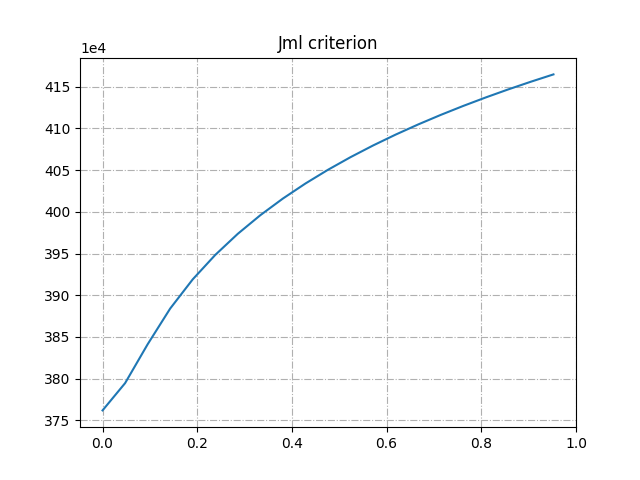
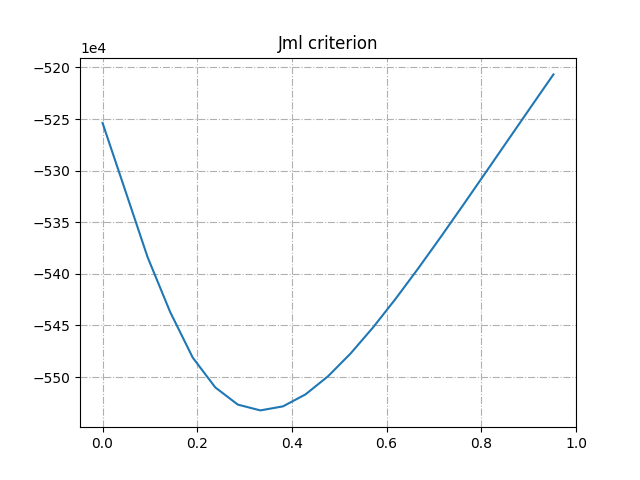
Fixed : joint and marginal estimation.

diff --git a/Scripts/functions.py b/Scripts/functions.py
@@ -11,7 +11,50 @@ from plotLib import saveImsubplots, saveImplot
 import numpy as np
 import scipy as sp
 
-def jointMAP2psf(oObject, dspObject, psf_1, psf_2, alpha, verbose=False):
+def createSyntheticImage(oObject, psf_1, psf_2, alpha_0, verbose=False):
+    # Define the synthetic image
+    ## Define PSF
+    psf = alpha_0 * psf_1 + (1 - alpha_0) * psf_2 # The final PSF is a linear combination of the two PSFs
+
+    psfPadded = np.pad(psf, (768, 768), 'constant') # Use the padded psf for the Fourier transform
+    
+    
+    ### Plot psf for quality check
+    if verbose:
+        saveImplot(psfPadded, f"Resulting psf (padded) for alpha = {alpha_0}", filename=f"Resulting psf (padded) for alpha = {alpha_0}", save=True, plot=True)
+
+    psfPadded = sp.fft.ifftshift(psfPadded)
+    psfPadded = psfPadded[:1024, :1024]
+        
+        
+    ### Plot psf for quality check
+    if verbose:
+        saveImplot(psfPadded, f"Resulting psf (padded + shift) for alpha = {alpha_0}", filename=f"Resulting psf (padded + shift) for alpha = {alpha_0}", save=True, plot=True)
+
+    tfPsf = sp.fft.fft2(psfPadded)
+     
+     
+    ### Plot psf for quality check
+    if verbose:
+        saveImplot(np.abs(tfPsf), f"TF of the PSF for alpha = {alpha_0}", filename=f"TF of PSF for alpha = {alpha_0}", save=True, plot=True)
+
+    simImage = sp.fft.ifft2(sp.fft.fft2(oObject) * sp.fft.fft2(psfPadded))# Q: Should the psf be fftshifted here ?
+    sigma = 0.01 * np.max(oObject)
+    noise = sigma * np.random.randn(*simImage.shape) # Noise corresponding roughly to photon noise for an average of 10 000 photons/pixels
+    simImageNoised = simImage + noise
+    
+
+    ### Plot simulated object, noise, image for quality check
+    if verbose:
+        saveImsubplots([oObject, simImage.real, noise, simImageNoised.real], ["Object", "Image", "Noise", "Noised Image"], filename="simulated_object_image_noisedImage", save=True, plot=True)
+
+
+    
+    return simImageNoised, sigma
+
+
+
+def jointMAP2psf(oObject, dspObject, psf_1, psf_2, alpha, simImageNoised, sigma):
     """Performs the joint estimation of the object and the PSF using the Jmap criterion. The criterion is computed for the given object, the two PSFs and the alpha value. The simulated image is computed using the object and the PSF. The noise is added to the simulated image. The noise and signal DSPs are computed. The Jmap criterion is computed and returned.
 
     Args:
@@ -24,33 +67,15 @@ def jointMAP2psf(oObject, dspObject, psf_1, psf_2, alpha, verbose=False):
     Returns:
         float: Jmap criterion value. The joint MAP solution is the value of alpha that minimize Jmap.
     """
-    ## Define PSF
-    # alpha = 0.3
-    psf = alpha * psf_1 + (1 - alpha) * psf_2
-
-
-    ### Plot psf for quality check
-    if verbose:
-        saveImplot(psf, f"Resulting psf for alpha = {alpha}", filename=f"Resulting psf for alpha = {alpha}", save=False, plot=True)
-
-
-
+    
     ## Joint estimation
-    # from scipy.signal import convolve2d
 
-    psfPadded = np.pad(psf, (256, 256), 'wrap') # Use the padded psf for the Fourier transform
-    psfPadded = sp.fft.ifftshift(psfPadded)
-    simImage = sp.fft.ifft2(sp.fft.fft2(oObject) * sp.fft.fft2(psfPadded))# Q: Should the psf be fftshifted here ?
-    # simImage[:512, :512]
-    sigma = 0.01 * np.max(oObject)
-    noise = sigma * np.random.randn(*simImage.shape) # Noise corresponding roughly to photon noise for an average of 10 000 photons/pixels
-    simImageNoised = simImage + noise
-
-
-    ### Plot simulated object, noise, image for quality check
-    if verbose:
-        saveImsubplots([oObject, simImage.real, noise, simImageNoised.real], ["Object", "Image", "Noise", "Noised Image"], filename="simulated_object_image_noisedImage", save=True, plot=True)
-
+    h = alpha * psf_1 + (1 - alpha) * psf_2
+    
+    hPad = np.pad(h, (768, 768), 'constant') # Use the padded psf for the Fourier transform
+    hPad = sp.fft.ifftshift(hPad)
+    hPad = hPad[:1024, :1024]
+        
 
 
     ## Compute the noise and signal DSPs
@@ -65,23 +90,26 @@ def jointMAP2psf(oObject, dspObject, psf_1, psf_2, alpha, verbose=False):
 
 
     ## Compute the Jjmap criterion and plot it
-    N =  simImage.shape[0] * simImage.shape[1] # Number of pixels
-    dspNoise = sigma**2 * simImage.shape[0]**2 # dspNoise.mean() # Average noise power, the noise is white so it is constant, one could have taken dspNoise[0,0] = sigma^2 ici attention à la normalisation avec le nombre de pixel pour garder l'énergie constante
+    N =  simImageNoised.shape[0] * simImageNoised.shape[1] # Number of pixels
+    dspNoise = sigma**2 * N # dspNoise.mean() # Average noise power, the noise is white so it is constant, one could have taken dspNoise[0,0] = sigma^2 ici attention à la normalisation avec le nombre de pixel pour garder l'énergie constante
+    meanObject = oObject.mean() * np.ones(oObject.shape)
+    # meanObject = np.zeros(oObject.shape)
+
 
     Jmap = (
         0.5 * N * np.log(dspNoise) + # Here we removed the N**2 factor because it led to a very large negative offset (1e12 order of magnitude). I think it has already been taken into account in the definition of the dsp    
         0.5 * np.sum(np.log(dspObject)) +
         0.5 * np.sum(
-            np.abs(sp.fft.fft2(simImageNoised) - sp.fft.fft2(simImage))**2 / # Equivalent to np.abs(sp.fft.fft2(noise))**2
+            np.abs(sp.fft.fft2(simImageNoised) - sp.fft.fft2(hPad) * sp.fft.fft2(meanObject))**2 / # Equivalent to np.abs(sp.fft.fft2(noise))**2
             dspObject /
-            (np.abs(sp.fft.fft2(psfPadded))**2 + dspNoise * np.reciprocal(dspObject)) # Q: Is there an impact of using the padded PSF here ?
+            (np.abs(sp.fft.fft2(hPad))**2 + dspNoise / dspObject) # Q: Is there an impact of using the padded PSF here ?
         )
     )
     
-    return Jmap, dspNoise, psfPadded, N
+    return Jmap, dspNoise, hPad, N
 
 
-def marginalML2psf(oObject, dspObject, psf_1, psf_2, alpha, verbose=False):
+def marginalML2psf(oObject, dspObject, psf_1, psf_2, alpha, simImageNoised, sigma,):
     """Performs the joint estimation of the object and the PSF using the Jmap criterion. The criterion is computed for the given object, the two PSFs and the alpha value. The simulated image is computed using the object and the PSF. The noise is added to the simulated image. The noise and signal DSPs are computed. The Jmap criterion is computed and returned.
 
     Args:
@@ -94,12 +122,12 @@ def marginalML2psf(oObject, dspObject, psf_1, psf_2, alpha, verbose=False):
     Returns:
         float: Jmap criterion value. The joint MAP solution is the value of alpha that minimize Jmap.
     """
-    Jmap, dspNoise, psfPadded, N = jointMAP2psf(oObject, dspObject, psf_1, psf_2, alpha, verbose)
+    Jmap, dspNoise, hPad, N = jointMAP2psf(oObject, dspObject, psf_1, psf_2, alpha, simImageNoised, sigma)
     dspObject = dspObject[:1024,:1024]
 
     Jml = (
-        # Jmap +
-        0.5 * np.sum(np.log(np.abs(sp.fft.fft2(psfPadded))**2 + dspNoise * np.reciprocal(dspObject))) - 
+        Jmap +
+        0.5 * np.sum(np.log(np.abs(sp.fft.fft2(hPad))**2 + dspNoise / dspObject)) - 
         0.5 * N * np.log(dspNoise) # Here we removed the N**2 factor because it led to a very large negative offset (1e12 order of magnitude). I think it has already been taken into account in the definition of the dsp
     )
     

diff --git a/Scripts/main.py b/Scripts/main.py
@@ -24,8 +24,8 @@ theta = np.arctan2(xFreq_array, yFreq_array)  # Angle in radians
 
 
 ### Plot modulus and phase for quality check
-saveImplot(rho, "Polar modulus", filename="polar_modulus", save=True, plot=True)
-saveImplot(theta, "Polar phase", filename="polar_phase", save=True, plot=True)
+saveImplot(rho, "Polar modulus", filename="polar_modulus", save=True, plot=False)
+saveImplot(theta, "Polar phase", filename="polar_phase", save=True, plot=False)
 
 
 ## Computes the dsp of the object
@@ -34,13 +34,13 @@ k = 1
 rho_0 = 0.01
 
 dspObject = k /(1 + pow(rho/rho_0,p))
-profile = dspObject[0,:512] # Profile of the radial distance
-freqProfile = freq_vector[:512] # Profile of the frequency vector
+profile = dspObject[0,:1024] # Profile of the radial distance
+freqProfile = freq_vector[:1024] # Profile of the frequency vector
 
 
 ### Plot dspObject for quality check
-savePlot(freqProfile, profile, "Profile of the radial distance", filename="profile_radial_distance", save=True, plot=True, logX=True, logY=True)
-saveImplot(dspObject, f"dspObject for rho_0 = {rho_0}", filename=f"dspObject for rho_0 = {rho_0}", save=True, plot=True, logScale=True)
+savePlot(freqProfile, profile, "Profile of the radial distance", filename="profile_radial_distance", save=True, plot=False, logX=True, logY=True)
+saveImplot(dspObject, f"dspObject for rho_0 = {rho_0}", filename=f"dspObject for rho_0 = {rho_0}", save=True, plot=False, logScale=True)
 
 
 ## Generate the random variable
@@ -56,7 +56,7 @@ oObject = oObject - np.min(oObject) # Remove the offset
 
 
 ### Plot oObject for quality check
-saveImplot(oObject, f"Object for rho_0 = {rho_0}", filename=f"Object for rho_0 = {rho_0}", save=True, plot=True, logScale=False)
+saveImplot(oObject, f"Object for rho_0 = {rho_0}", filename=f"Object for rho_0 = {rho_0}", save=True, plot=False, logScale=False)
 
 
 
@@ -77,7 +77,7 @@ with fits.open(filename) as hdul:
 
 
 ### Plot psfs for visual check
-saveImsubplots(data, ["PSF 1", "PSF 2", "PSF 3"], filename="psfs", save=True, plot=True)
+saveImsubplots(data, ["PSF 1", "PSF 2", "PSF 3"], filename="psfs", save=True, plot=False)
 
 
 
@@ -88,9 +88,15 @@ from tqdm.auto import tqdm
 
 psf_1, psf_2, psf_3 = data[0], data[1], data[2]
 N = 20
-xAxis = [i /(N + 1) for i in range(N + 1)] # Define the alpha axis
+xAxis = [round(i /(N + 1),4) for i in range(N + 1)] # Define the alpha axis
 yAxis = np.zeros(N + 1) # Define the Jmap axis
 
+
+## Initialize synthetic image
+from functions import createSyntheticImage
+
+alpha_0 = 0.3
+simImageNoised, sigma = createSyntheticImage(oObject, psf_1, psf_2, alpha_0, verbose=False)
 
 
 ## Joint estimation
@@ -99,7 +105,7 @@ from functions import jointMAP2psf
 pbar = tqdm(desc="Jmap computation", total=100, unit_scale=True)
 
 for i, alpha in enumerate(xAxis):
-    res = jointMAP2psf(oObject, dspObject, psf_1, psf_3, alpha, verbose=True if i==1 else False)
+    res = jointMAP2psf(oObject, dspObject, psf_1, psf_3, alpha, simImageNoised, sigma)
     yAxis[i] = res[0]
     # print(f"Jmap Value for i = {i}: {yAxis[i]}")
     pbar.update(round(100 /(N + 1)))
@@ -116,7 +122,7 @@ from functions import marginalML2psf
 pbar = tqdm(desc="Jml computation", total=100, unit_scale=True)
 
 for i, alpha in enumerate(xAxis):
-    res = marginalML2psf(oObject, dspObject, psf_1, psf_3, alpha, verbose=True if i==1 else False)
+    res = marginalML2psf(oObject, dspObject, psf_1, psf_3, alpha, simImageNoised, sigma)
     yAxis[i] = res
     # print(f"Jml Value for i = {i}: {yAxis[i]}")
     pbar.update(round(100 /(N + 1)))

diff --git a/Scripts/plotLib.py b/Scripts/plotLib.py
@@ -42,6 +42,8 @@ def savePlot(x, y, title, filename="output", save=False, plot=True, logX=False, 
     if plot:
         plt.show()
     else:
+        plt.close()
+    if not plot and not save:
         print("Please select save or plot option")
 
 
@@ -65,6 +67,8 @@ def saveImplot(data, title, filename="output", save=False, plot=True, logScale=F
     if plot:
         plt.show()
     else:
+        plt.close()
+    if not plot and not save:
         print("Please select save or plot option")
 
 def saveImsubplots(data, legends, filename="output", columnNumber=3, size=(12, 4), save=False, plot=True, logScale=False):
@@ -100,4 +104,6 @@ def saveImsubplots(data, legends, filename="output", columnNumber=3, size=(12, 4
     if plot:
         plt.show()
     else:
+        plt.close()
+    if not plot and not save:
         print("Please select save or plot option")
